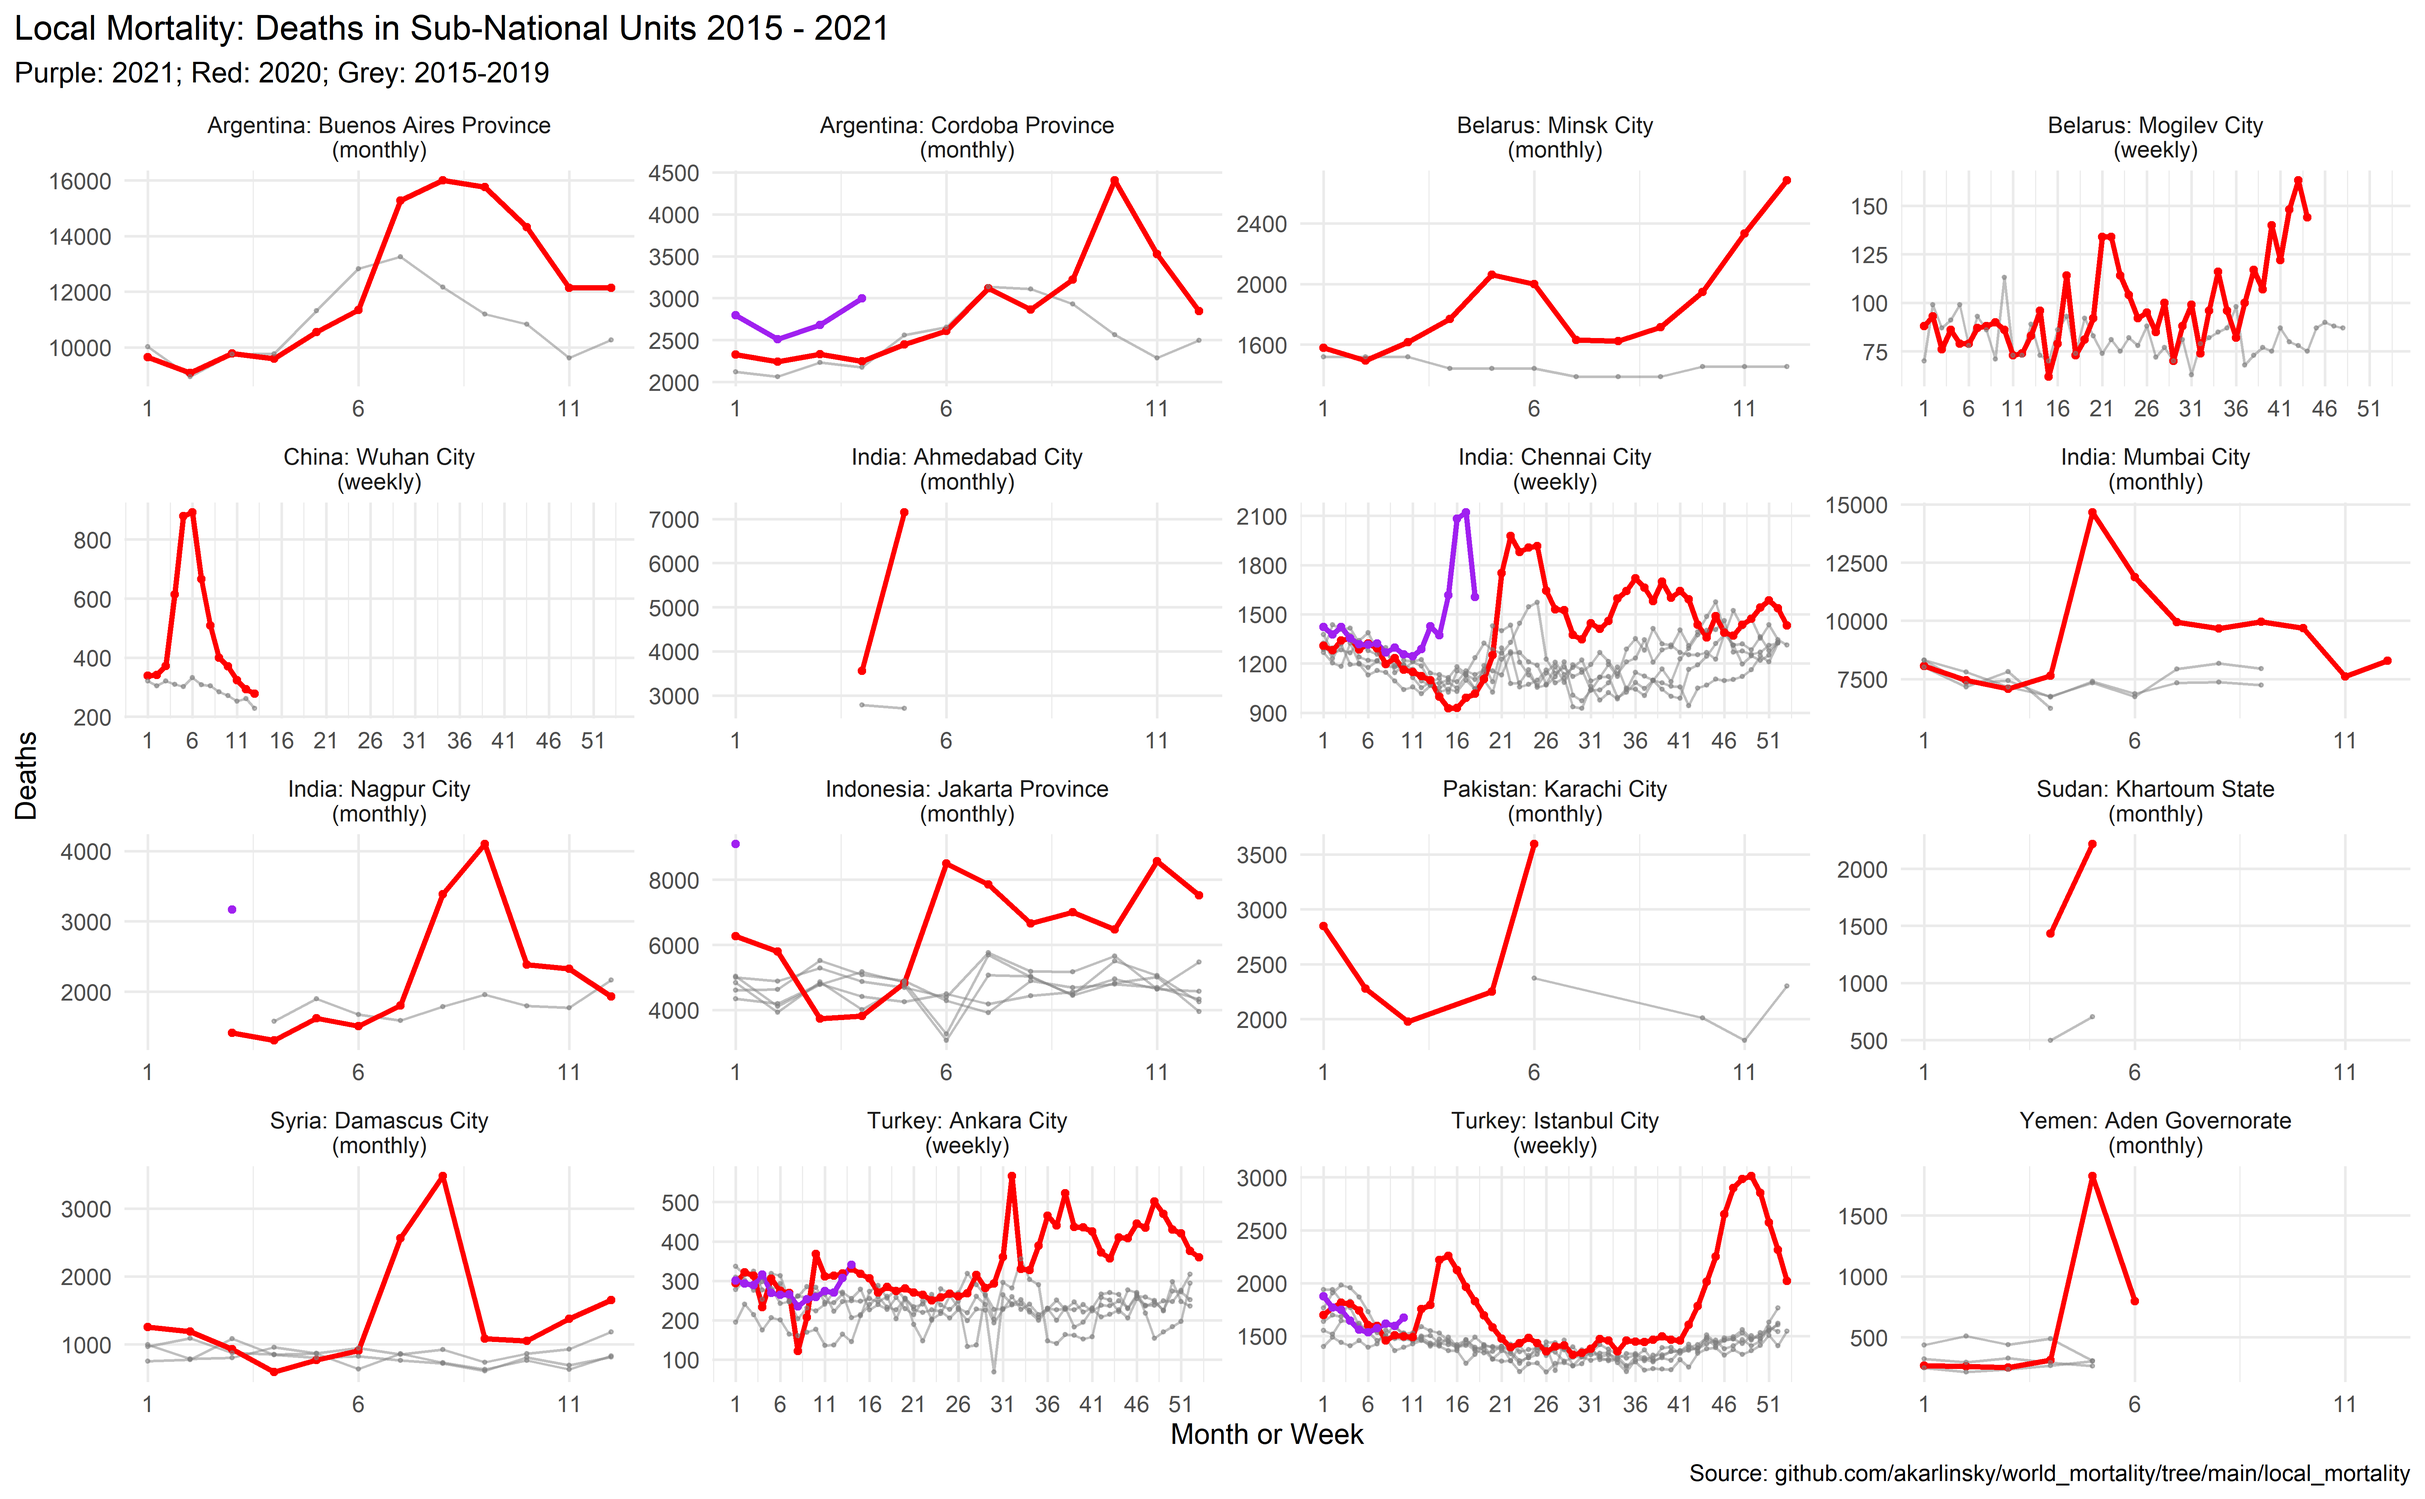
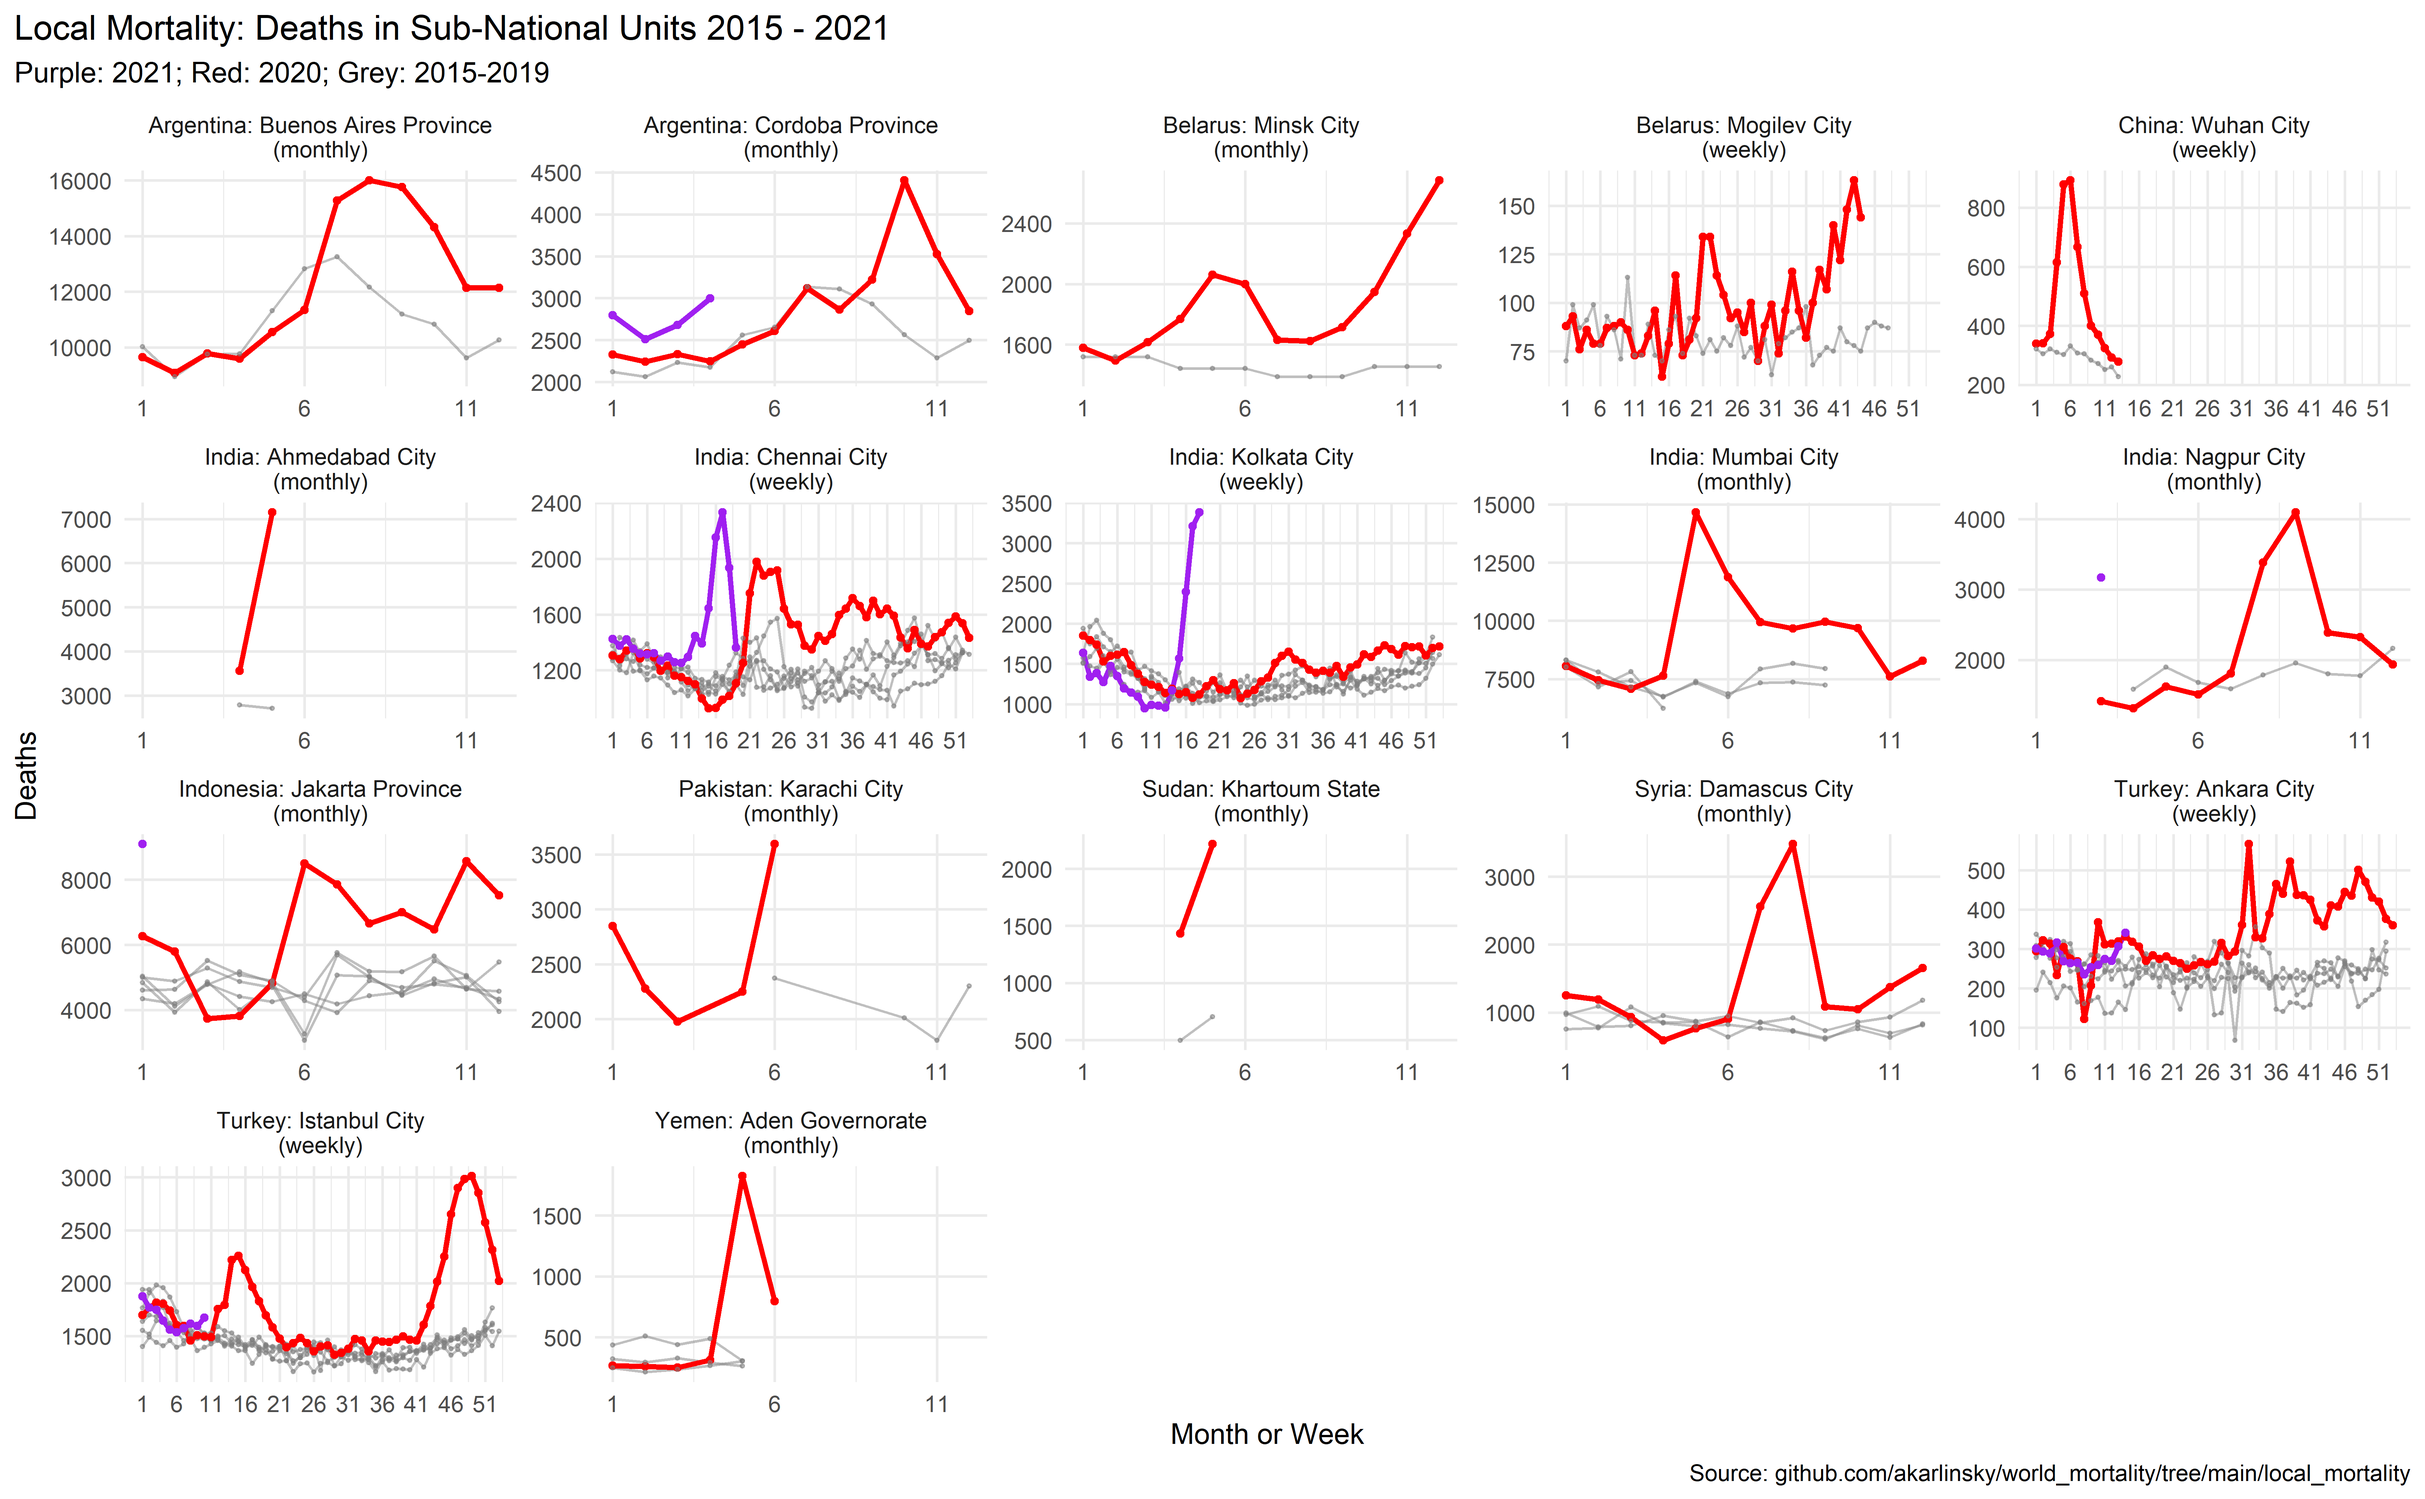
Local Mortality update
Chennai and Kolkata cities in India.

diff --git a/local_mortality/README.md b/local_mortality/README.md
@@ -5,7 +5,7 @@ Local is any sub-national unit - whether state, province, region, city etc.
 Local Mortality is a sister-project of [World Mortality](https://github.com/akarlinsky/world_mortality), Priority is given to local mortality information from countries which are not present in World Mortality or have very partial information on World Mortality.   
 
 Sources vary by local unit, see below.   
-We are currently providing data for 16 Local Units from 10 Countries.   
+We are currently providing data for 17 Local Units from 10 Countries.   
 We welcome any contributions.   
 
 ![Local Mortality coverage](local_mortality_map.png)
@@ -68,6 +68,10 @@ Information from [Sumitra Debroy](https://twitter.com/debroysumitra).
 https://timesofindia.indiatimes.com/city/nagpur/nov-death-figures-hint-at-undetected-covid-fatalities-in-city/articleshow/79612964.cms
 
 https://timesofindia.indiatimes.com/city/nagpur/hidden-toll-over-1300-more-deaths-after-covid-routine-fatalities-in-mar/articleshow/82169686.cms
+
+
+### Kolkata City
+https://github.com/thejeshgn/KMCDeathRecords
 
 
 ## Indonesia
